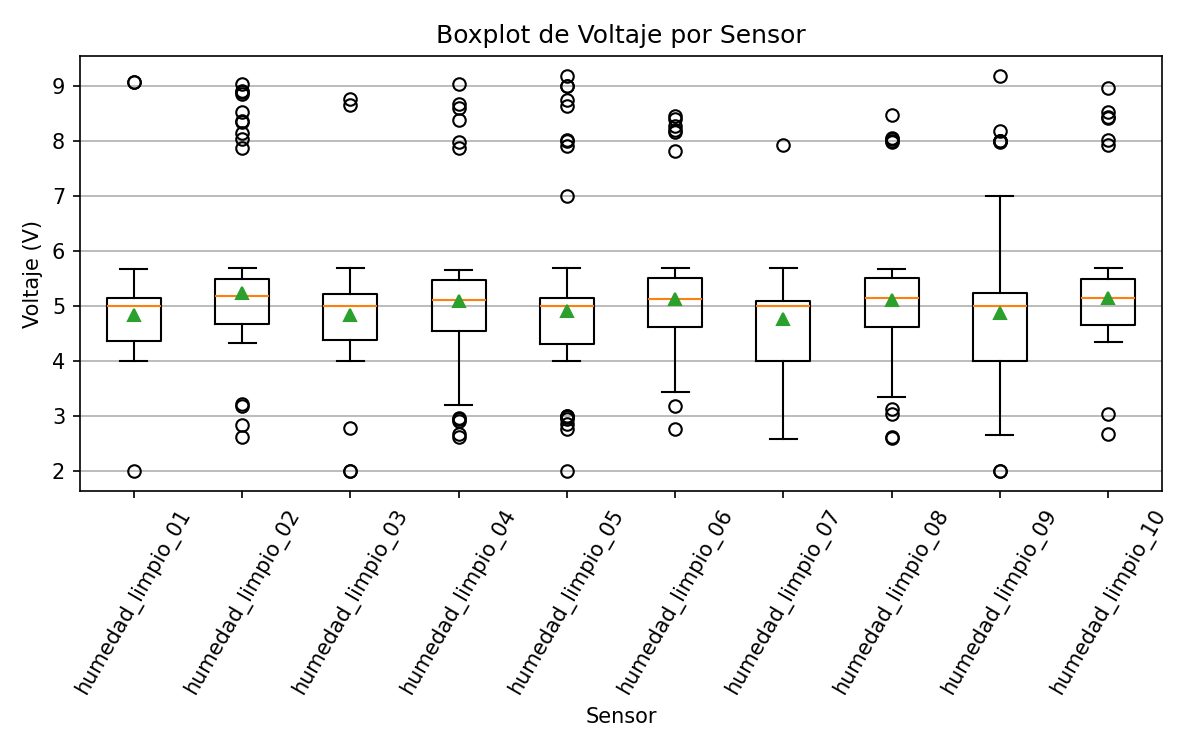
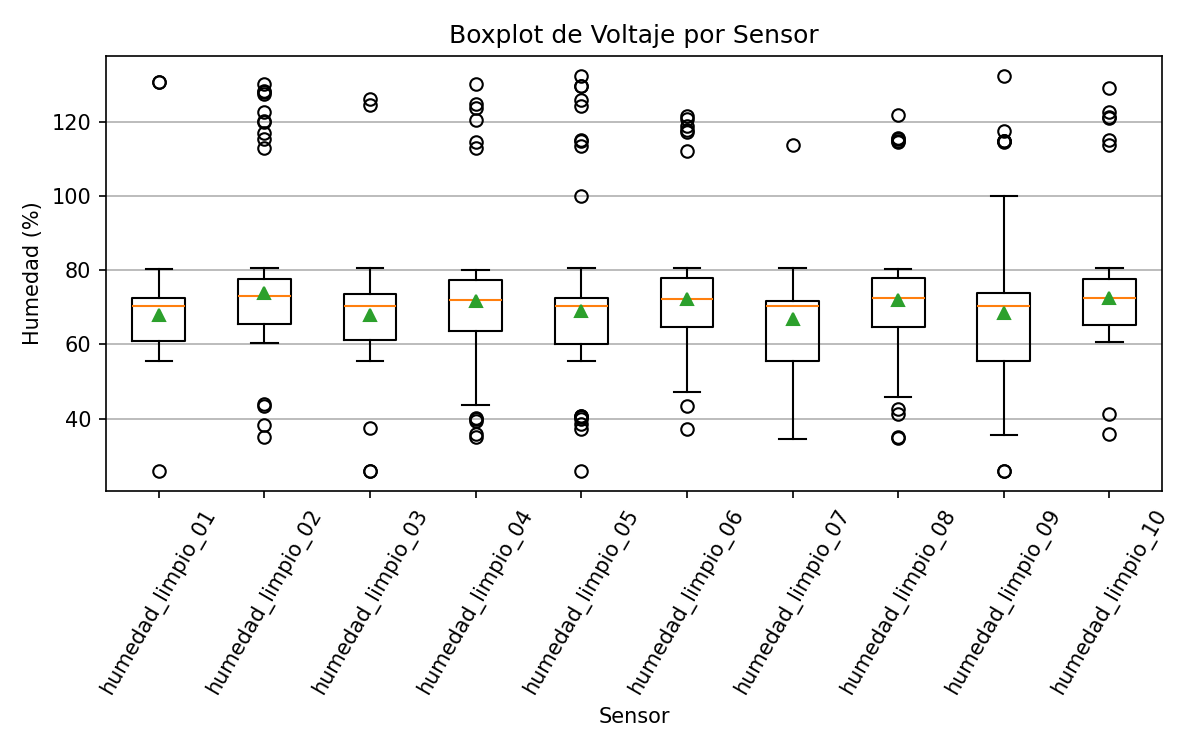
Trabajo PC2

diff --git a/Sesion 10/src/pipeline/plotting.py b/Sesion 10/src/pipeline/plotting.py
@@ -7,7 +7,15 @@ def plot_voltage_line(ts, volts, umbral_v: float, title: str, out_path: Path):
     plt.plot(ts, volts, label="humedad (%)")
     alerts_t = [t for t, v in zip(ts, volts) if v > umbral_v]
     alerts_v = [v for v in volts if v > umbral_v]
-    plt.scatter(alerts_t, alerts_v, label=f"Alertas (> {umbral_v} %)")
+    plt.scatter(alerts_t, alerts_v,color="#f40404d2",label=f"Alertas (> {umbral_v} V)")
+    ax = plt.gca()
+    for t, v in zip(alerts_t, alerts_v):
+        ax.annotate(f"{v:.2f}V",               # Permite ver los puntos donde se pasa del umbral
+                    xy=(t, v),                 # punto a anotar
+                    xytext=(0, 8),             # desplazamiento del texto (px)
+                    textcoords="offset points",
+                    ha="center", va="bottom",
+                    fontsize=8)
     plt.axhline(umbral_v, linestyle="--", label=f"Umbral {umbral_v} %")
     plt.gca().xaxis.set_major_formatter(mdates.DateFormatter("%H:%M:%S"))
     plt.title(title); plt.xlabel("Tiempo"); plt.ylabel("hum")
@@ -34,10 +42,10 @@ def plot_boxplot_by_sensor(sensor_to_volts: dict[str, list[float]], out_path: Pa
     plt.boxplot(data, vert=not horizontal, showmeans=True)
     if horizontal:
         plt.yticks(range(1, len(labels)+1), labels)
-        plt.xlabel("Voltaje (V)"); plt.ylabel("Sensor")
+        plt.xlabel("Humedad (%)"); plt.ylabel("Sensor")
     else:
         plt.xticks(range(1, len(labels)+1), labels, rotation=60)
-        plt.ylabel("Voltaje (V)"); plt.xlabel("Sensor")
+        plt.ylabel("Humedad (%)"); plt.xlabel("Sensor")
     plt.title("Boxplot de Voltaje por Sensor")
     plt.grid(True, axis="y" if not horizontal else "x")
     plt.tight_layout()

diff --git a/Sesion 10/run_pipeline.py b/Sesion 10/run_pipeline.py
@@ -1,6 +1,9 @@
 from pathlib import Path
 import csv
-from src.pipeline import (Root, ensure_dirs, list_raw_csvs,make_clean_name,safe_stem, clean_file, kpis_volt, plot_voltage_line, plot_voltage_hist, plot_boxplot_by_sensor)
+from src.pipeline import (Root, ensure_dirs, 
+                          list_raw_csvs,make_clean_name,safe_stem, 
+                          clean_file, kpis_volt, plot_voltage_line, 
+                          plot_voltage_hist, plot_boxplot_by_sensor)
 # === Parámetros ===
 ROOT = Root(__file__)
 RAW_DIR = ROOT / "DATA" / "RAW"
@@ -44,8 +47,8 @@ def main():
         stem_safe = safe_stem(out_path)
         plot_voltage_line(
             ts, humedad, UMBRAL_V,
-            title=f"Voltaje vs Tiempo — {out_path.name}",
-            out_path=PLOTS_DIR / f"{stem_safe}__volt_line__{UMBRAL_V:.1f}V.png"
+            title=f"Humedad vs Tiempo — {out_path.name}",
+            out_path=PLOTS_DIR / f"{stem_safe}__volt_line__{UMBRAL_V:.1f}%.png"
         )
         plot_voltage_hist(
             humedad,
@@ -59,7 +62,7 @@ def main():
         name = out_path.stem
         sensor_id = name.replace("voltaje_sensor_", "")
         sensor_key = f"S-{sensor_id}" if sensor_id != name else name
-        sensor_to_volts.setdefault(sensor_key, []).extend(volts)
+        sensor_to_volts.setdefault(sensor_key, []).extend(humedad)
 
     # 5) Guardar reporte KPIs
     rep_csv = REPORTS_DIR / "kpis_por_archivo.csv"

diff --git a/Sesion 10/src/pipeline/cleaning.py b/Sesion 10/src/pipeline/cleaning.py
@@ -62,7 +62,9 @@ def clean_file(in_path: Path, out_path: Path, ts_col="timestamp", v_col_candidat
             v = parse_v(v_raw)
             if v is None:
                 bad_val += 1; continue
+            #ecuacion lineal de calibracion -
             hum=2+(100-2)*(v-0.4)/(7.0-0.4)
+            
             writer.writerow({
                 "timestamp": t.strftime("%Y-%m-%dT%H:%M:%S"),
                 "voltage_V": f"{v:.3f}",
